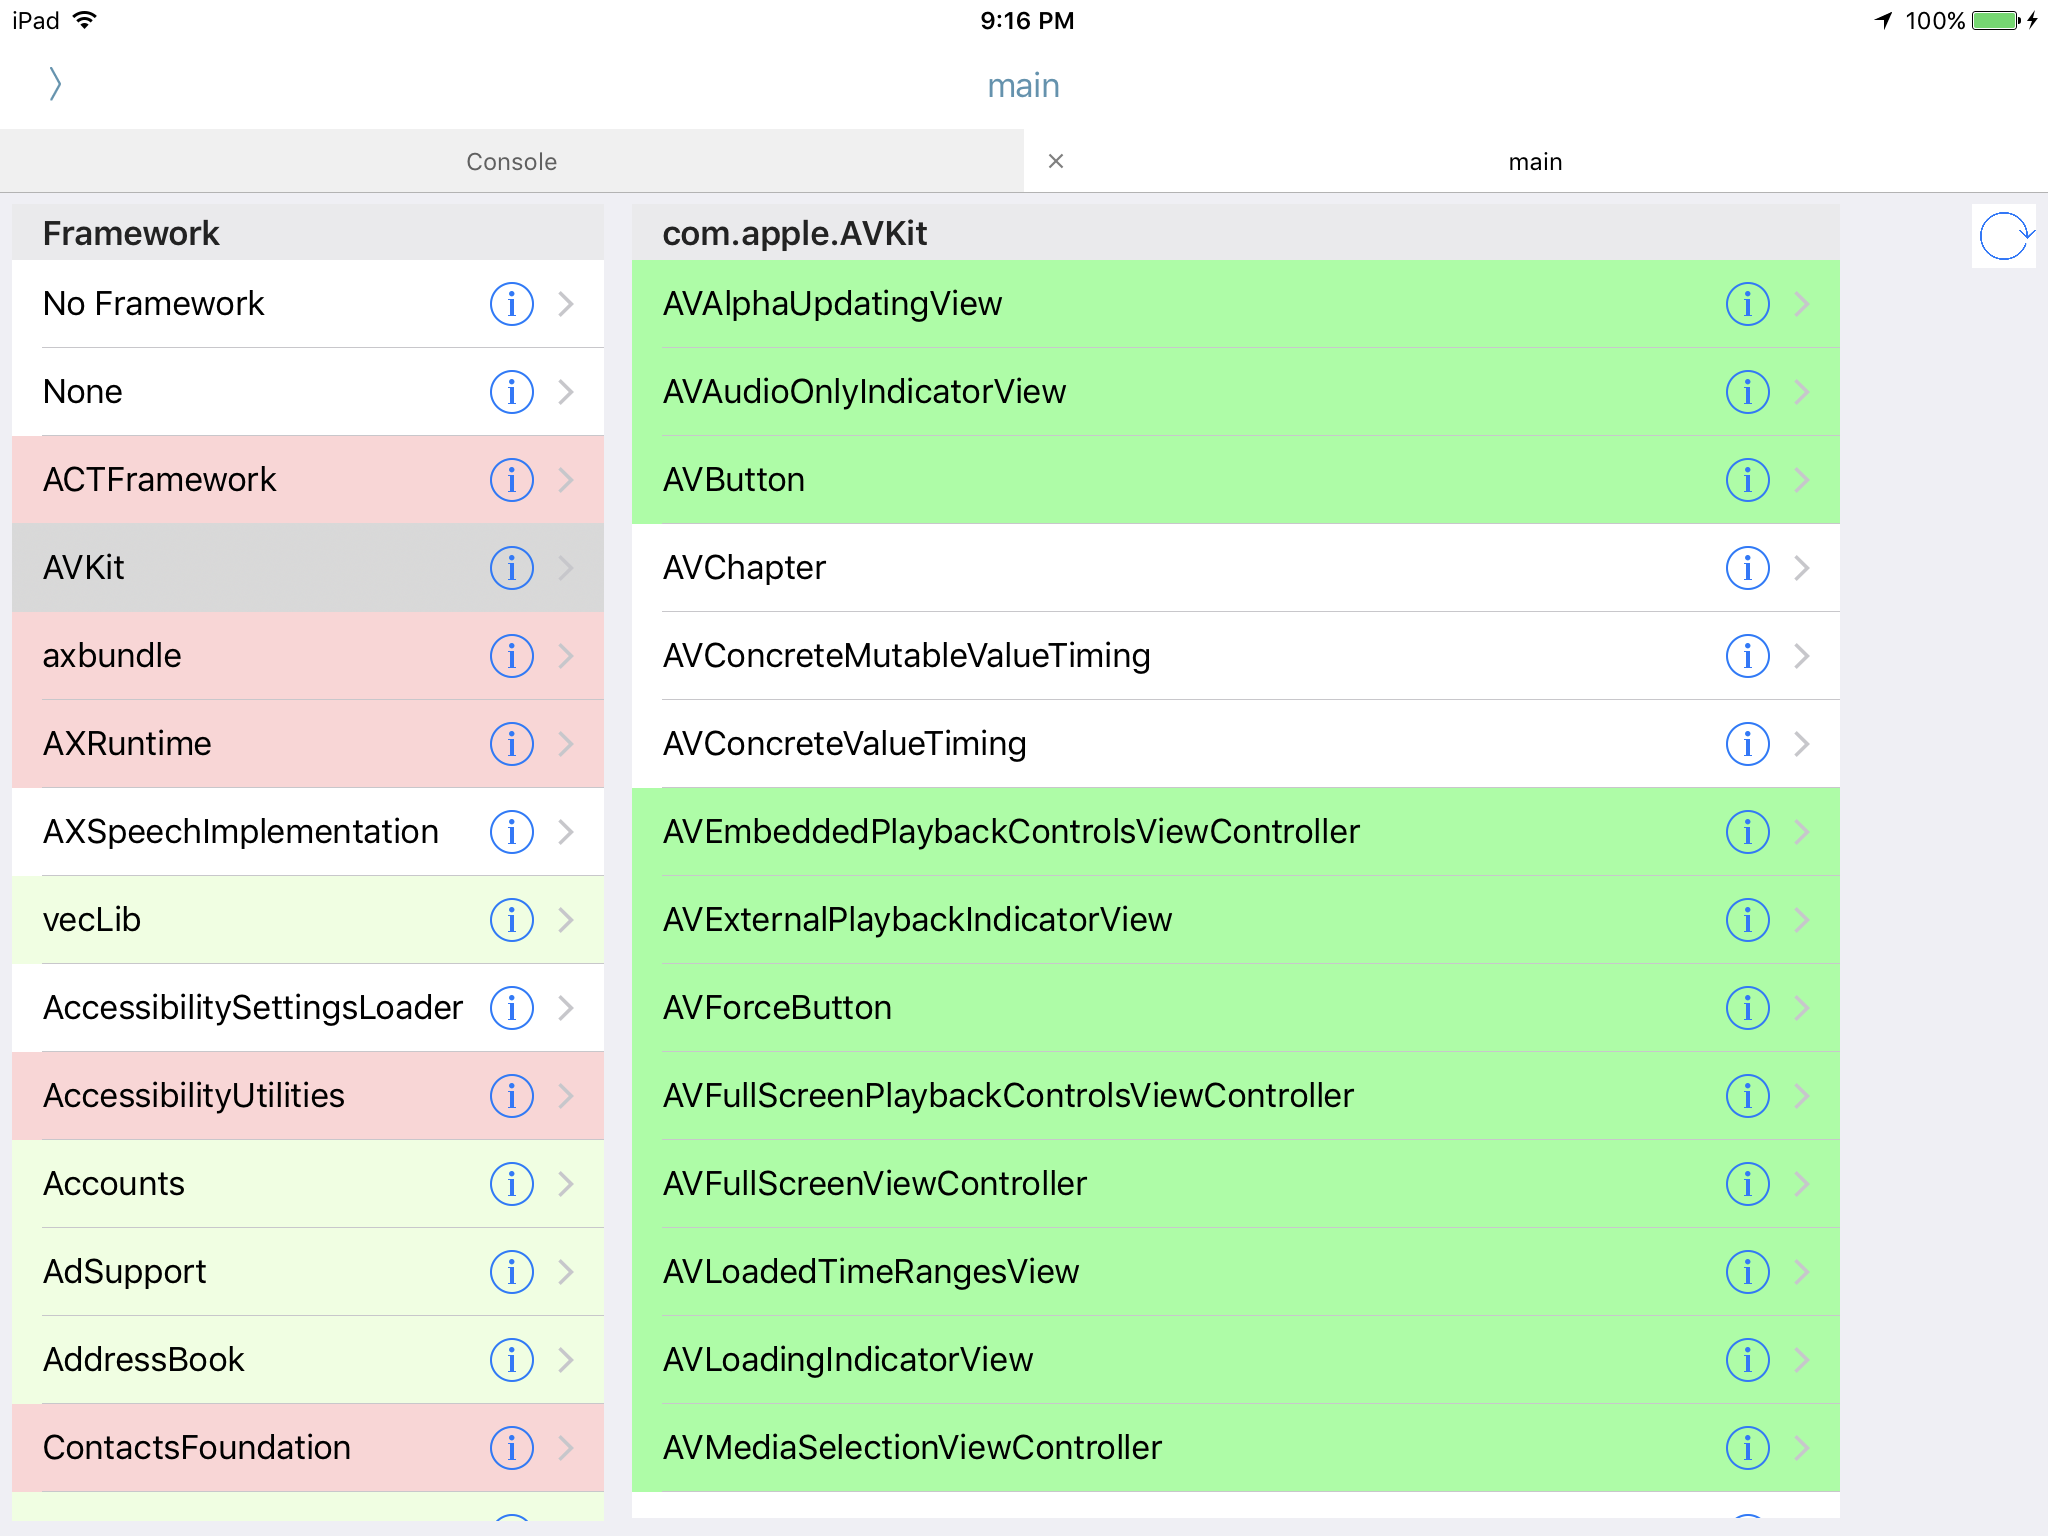
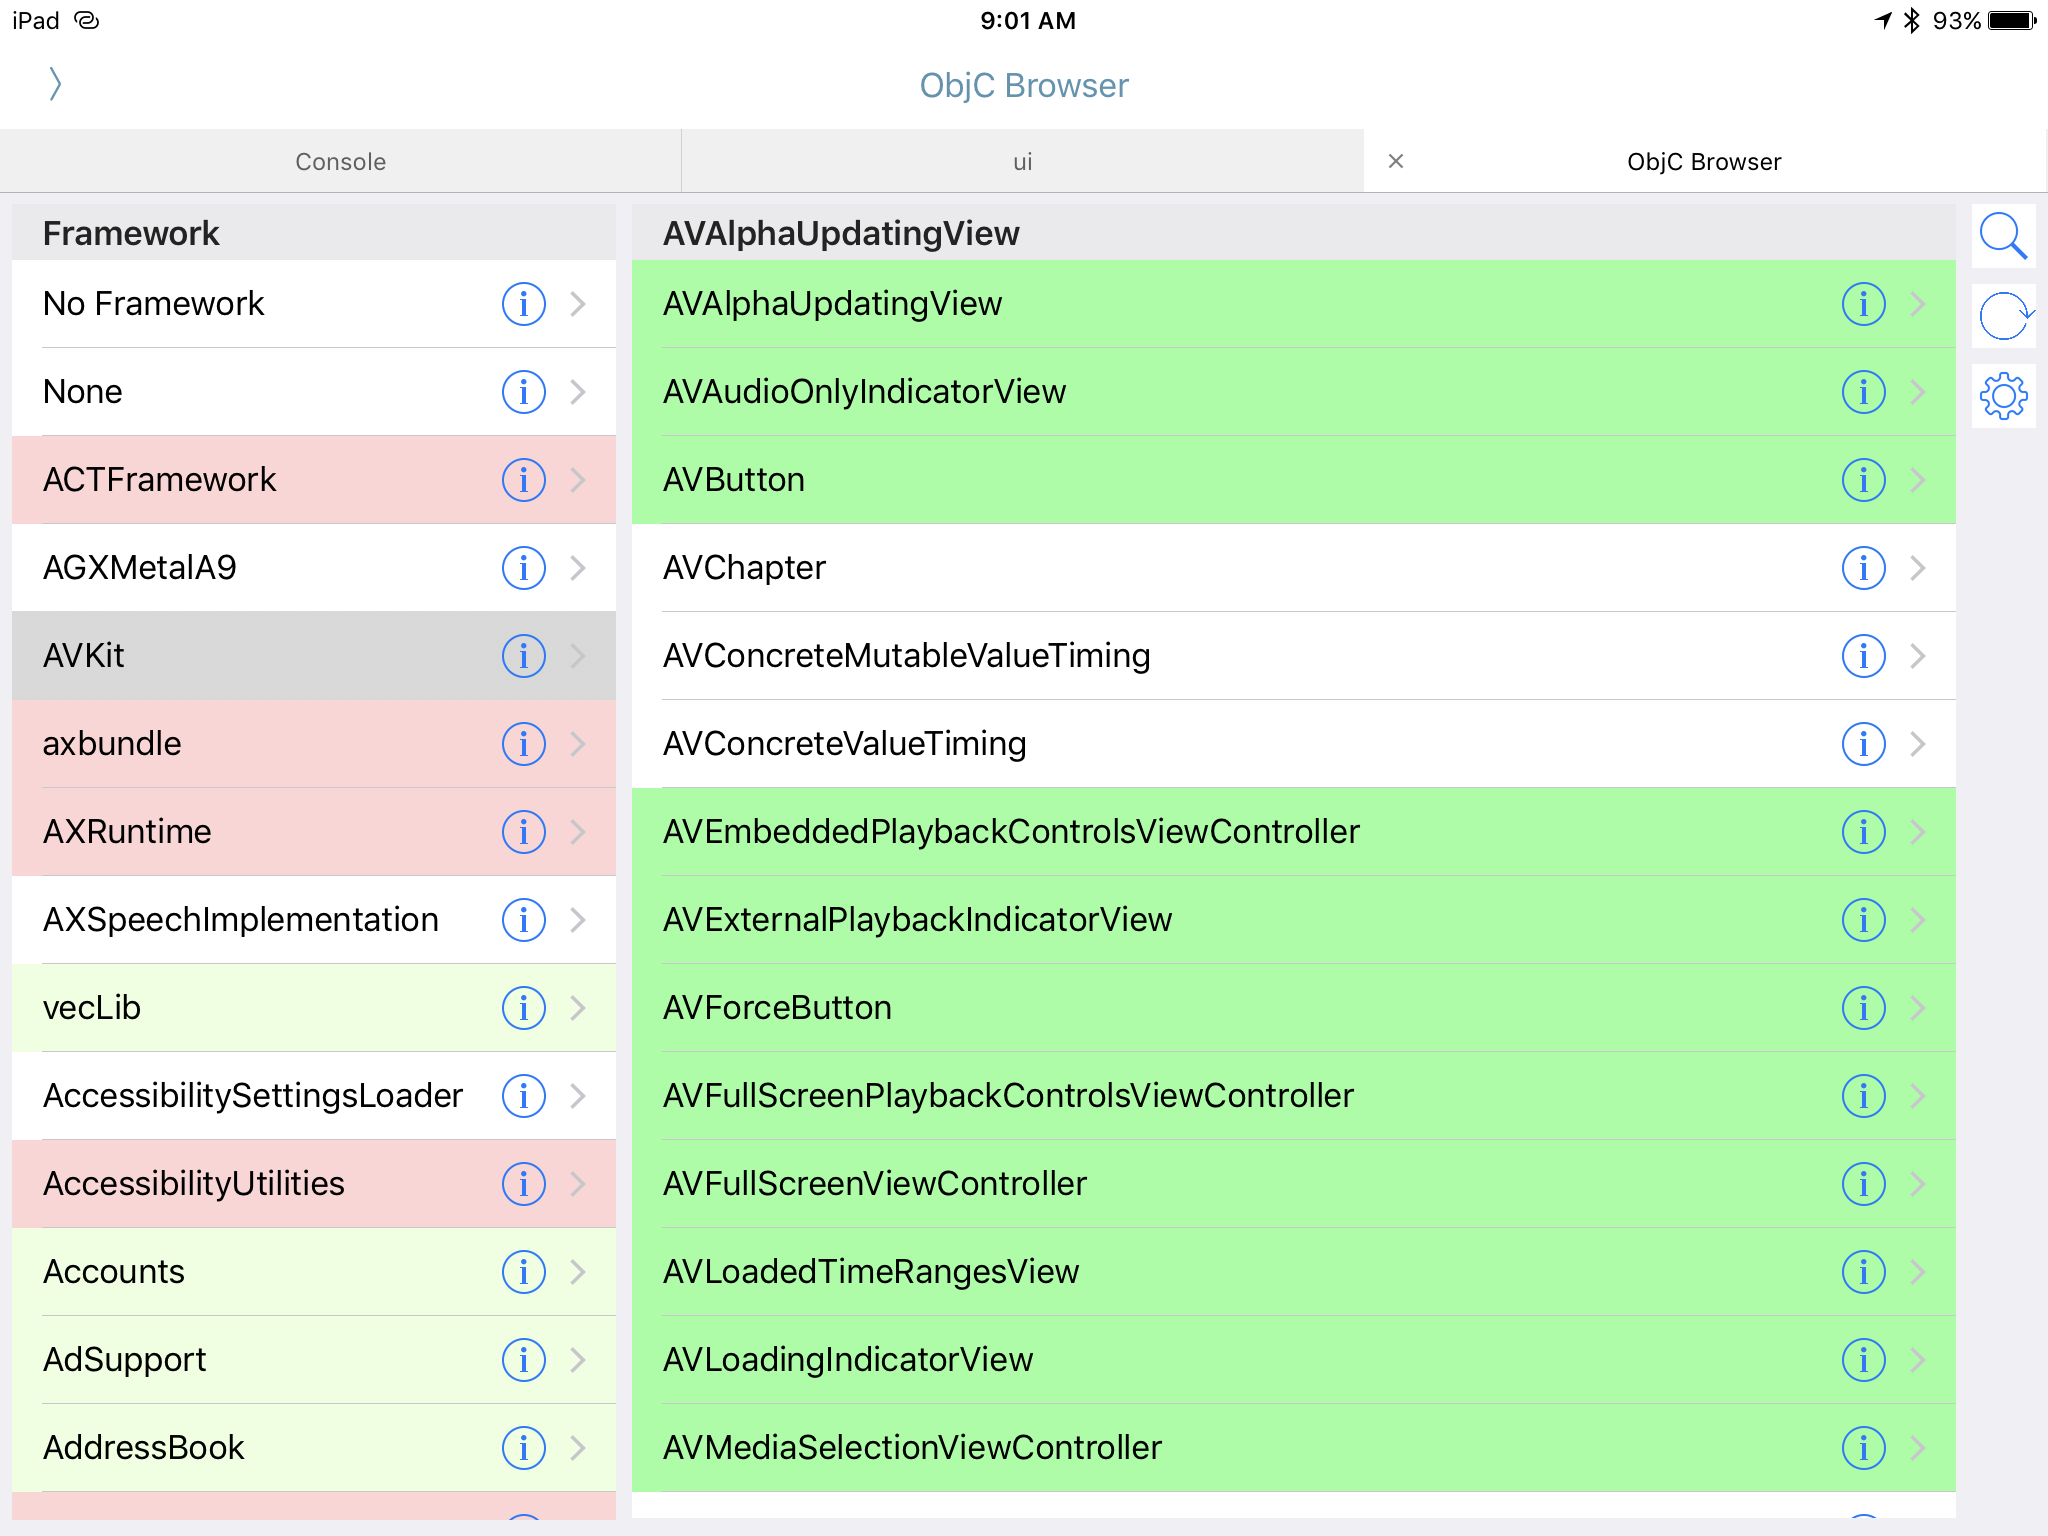
objc_browser added search and layout changes

diff --git a/tools/objc_browser/objc_browser.py b/tools/objc_browser/objc_browser.py
@@ -8,7 +8,7 @@ import re
 from sys import argv
 import json
 import os
-
+                
 
 def config_handler():
     global objc_browser_conf
@@ -49,6 +49,87 @@ def matchcell(item, match_lists):
         if res:
             return i[1]
     return 'white'
+
+        
+class SearchMethods (object):
+    def __init__(self):
+        self.sender = None
+    
+    def started_handler(self, sender):
+        # Needed incase the view is dismissed
+        self.view = ui.load_view('search')
+        self.view['Search'].action = self.do_search
+        self.view['Filter'].clear_button_mode = 'always'
+        self.view['Filter'].action = self.do_search
+        self.view['results'].delegate = self.CopyDelegate()
+        self.sender = sender
+        self.view.present('popover', popover_location = sender.center.as_tuple())
+        
+    def do_search(self, sender):
+        self.view['results'].data_source = FrameworkSearchDataSource(self.search(self.view['Filter'].text))
+        self.view['results'].reload()
+        
+    def search(self, query):
+        q = re.compile(query)
+        results = []
+        for k, v in frameworks.fworks['frameworks'].items():
+            bresult = {'bundle': v['bundle'], 'items': []}
+            for i in v['items']:
+                if q.match(i):
+                    bresult['items'] += [i]
+            if bresult['items']:
+                results += [bresult]
+        return results
+        
+    class CopyDelegate (object):
+        def tableview_did_select(self, tableview, section, row):
+            tableview.selected_row = -1
+            clipboard.set(tableview.data_source.items[section]['items'][row])
+            dialogs.hud_alert('copied')
+    
+        def tableview_accessory_button_tapped(self, tableview, section, row, **kwargs):
+            t = ui.TableView()
+            v = ui.NavigationView(t)
+            v.name = tableview.data_source.items[section]['items'][row]
+            t.data_source = ClassBrowserController(v.name)
+            t.delegate = SuperClassDelegate()
+            v.autoresizing = 'wh'
+            t.reload()
+            if ui.get_window_size().width <= 320:
+                v.present('full_screen')
+            else:
+                v.width = 600
+                v.height = 800
+                v.flex = 'HR'
+                v.present('popover', popover_location=(0, 0))
+        
+    
+class FrameworkSearchDataSource (object):
+    '''Pass the items from frameworks_search
+    >>> d = SearchMethods.search('*.AV')
+    '''
+    def __init__(self, result):
+        self.items = result
+
+    def tableview_did_select(self, tableview, section, row):
+        pass
+
+    def tableview_number_of_sections(self, tableview):
+        return len(self.items)
+
+    def tableview_number_of_rows(self, tableview, section):
+        return len(self.items[section]['items'])
+
+    def tableview_cell_for_row(self, tableview, section, row):
+        cell = ui.TableViewCell()
+        cell.text_label.text = self.items[section]['items'][row]
+        l = class_objects(self.items[section]['items'][row], False)[0][1]
+        cell.background_color = matchcell(l, objc_browser_conf['FrameworkClassesHighlight'])
+        cell.accessory_type = 'detail_disclosure_button'
+        return cell
+
+    def tableview_title_for_header(self, tableview, section):
+        return self.items[section]['bundle'].bundleID
 
 
 def class_objects(cla='', alloc=True):
@@ -166,7 +247,29 @@ class FrameworkClassesDataSource(object):
         return cell
 
     def tableview_title_for_header(self, tableview, section):
-        return self.name
+        return self.items[section]
+
+
+class FrameworkClassesDelegate (object):
+    def tableview_did_select(self, tableview, section, row):
+        obj = tableview.data_source.fworks['frameworks'][tableview.data_source.fworks['flist'][row]]
+        tableview.superview.superview['selected'].data_source = FrameworkClassesDataSource(obj)
+        tableview.superview.superview['selected'].reload()
+
+    def tableview_accessory_button_tapped(self, tableview, section, row, **kwargs):
+        obj = tableview.data_source.fworks['frameworks'][tableview.data_source.fworks['flist'][row]]
+        v = ui.TableView()
+        v.row_height = 120
+        v.name = '{} Info'.format(tableview.data_source.fworks['flist'][row].split('.')[-1])
+        v.data_source = BundleInfoDataSource(obj)
+        v.autoresizing = 'wh'
+        v.reload()
+        if ui.get_window_size().width <= 320:
+            v.present('full_screen')
+        else:
+            v.width = 300
+            v.height = 200
+            v.present('popover')
 
 
 class CopyDelegate (object):
@@ -234,7 +337,7 @@ class ClassBrowserController(object):
         return self.obs[section][0]
 
 
-class InfoDataSource (object):
+class BundleInfoDataSource (object):
     def __init__(self, obj):
         self.binfo = obj['bundle']
         self.items = ['Path: {}'.format(self.binfo.path), 'Type: {}'.format(self.binfo.extensionType)]
@@ -257,28 +360,6 @@ class InfoDataSource (object):
         cell.text_label.number_of_lines = 0
         cell.text_label.line_break_mode = ui.LB_WORD_WRAP
         return cell
-
-
-class FrameworkClassesDelegate (object):
-    def tableview_did_select(self, tableview, section, row):
-        obj = tableview.data_source.fworks['frameworks'][tableview.data_source.fworks['flist'][row]]
-        tableview.superview.superview['selected'].data_source = FrameworkClassesDataSource(obj)
-        tableview.superview.superview['selected'].reload()
-
-    def tableview_accessory_button_tapped(self, tableview, section, row, **kwargs):
-        obj = tableview.data_source.fworks['frameworks'][tableview.data_source.fworks['flist'][row]]
-        v = ui.TableView()
-        v.row_height = 120
-        v.name = '{} Info'.format(tableview.data_source.fworks['flist'][row].split('.')[-1])
-        v.data_source = InfoDataSource(obj)
-        v.autoresizing = 'wh'
-        v.reload()
-        if ui.get_window_size().width <= 320:
-            v.present('full_screen')
-        else:
-            v.width = 300
-            v.height = 200
-            v.present('popover')
 
 
 class AllFrameworksDataSource(object):
@@ -315,7 +396,7 @@ def reload_data(sender, response='Reloaded'):
     sender.superview['fwcontainer']['activity'].start()
     sender.enabled = False
     frameworks.fworks = get_frameworks()
-    sender.superview['fwcontainer']['classes'].reload()
+    sender.superview['fwcontainer']['bundles'].reload()
     sender.superview['fwcontainer']['activity'].stop()
     dialogs.hud_alert('Reloaded')
     sender.enabled = True
@@ -332,13 +413,15 @@ def run():
     a.name = 'activity'
     v['fwcontainer'].add_subview(a)
     v['fwcontainer']['activity'].center = v['fwcontainer'].center
-    v['fwcontainer']['classes'].delegate = FrameworkClassesDelegate()
+    v['fwcontainer']['bundles'].delegate = FrameworkClassesDelegate()
     v['selected'].delegate = CopyDelegate()
     v.present('panel')
     v['reload'].enabled = False
     frameworks = AllFrameworksDataSource(get_frameworks())
-    v['fwcontainer']['classes'].data_source = frameworks
+    v['fwcontainer']['bundles'].data_source = frameworks
     reload_data(v['reload'], "Loaded")
+    search = SearchMethods()
+    v['search'].action = search.started_handler
 
     # v['classes'].reload()
 
